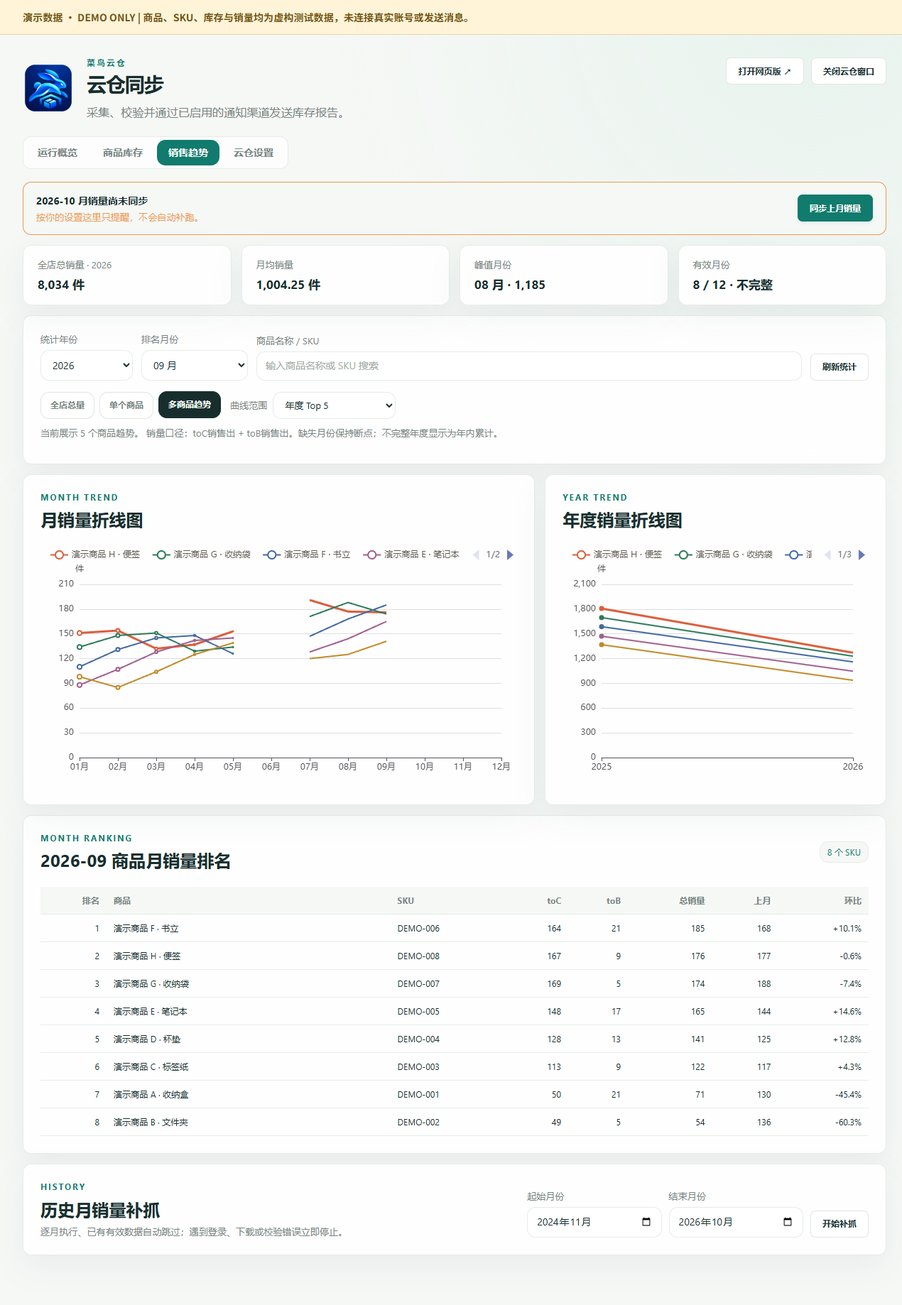
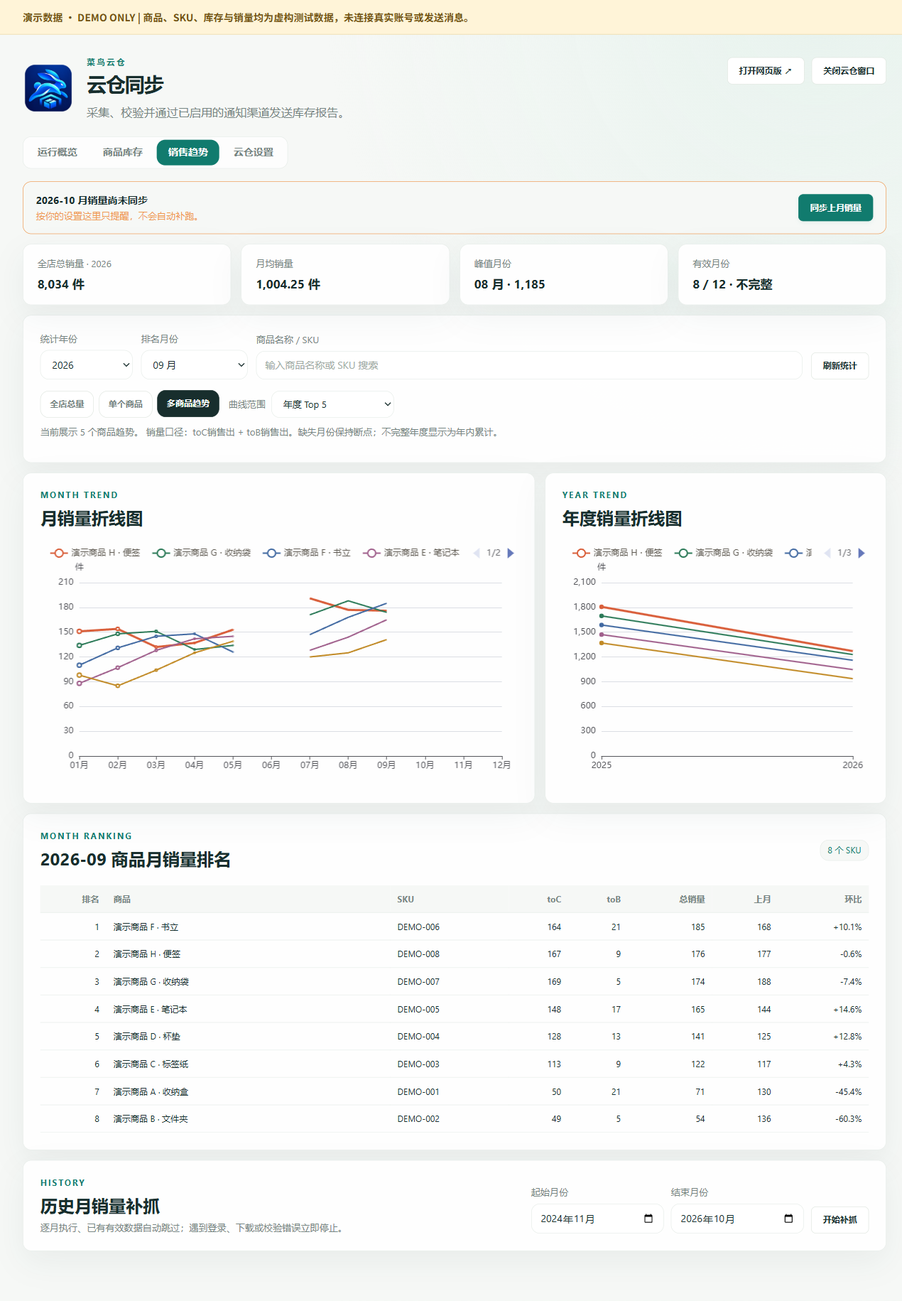
Release 0.10.17: fnOS gateway access, diagnostics and standalone cleanup

diff --git a/windows/workbench/desktop/renderer/web-adapter.js b/windows/workbench/desktop/renderer/web-adapter.js
@@ -5,24 +5,49 @@
   const configuredPrefix = typeof window.__CAINIAO_GATEWAY_PREFIX__ === 'string' ? window.__CAINIAO_GATEWAY_PREFIX__ : '';
   const gatewayPrefix = configuredPrefix.startsWith('/') && !configuredPrefix.startsWith('//') ? configuredPrefix.replace(/\/+$/, '') : '';
   let csrf = '', cursor = 0, connected = false, stopped = false;
-  let diagnosis = '';
+  let diagnosis = '', displayedStatus = '', displayedDiagnosis = '';
   function status(message) {
     const show = () => {
       let banner = document.getElementById('localWebStatus');
       if (!banner) { banner = document.createElement('div'); banner.id = 'localWebStatus'; banner.className = 'local-web-status'; banner.setAttribute('role', 'status'); document.body.prepend(banner); }
+      banner.hidden = !message;
+      const detail = message ? diagnosis : '';
+      if (message === displayedStatus && detail === displayedDiagnosis) return;
+      displayedStatus = message;
+      displayedDiagnosis = detail;
+      const existingLog = banner.querySelector('textarea');
+      const existingMessage = banner.firstChild;
+      if (message && detail && existingLog && existingMessage?.nodeType === Node.TEXT_NODE) {
+        existingMessage.textContent = message;
+        // Keep the displayed snapshot stable while the user is selecting it.
+        if (document.activeElement !== existingLog) existingLog.value = detail;
+        return;
+      }
       banner.textContent = message; banner.hidden = !message;
-      if (message && diagnosis && gatewayPrefix) {
+      if (detail) {
         const details = document.createElement('details');
         const summary = document.createElement('summary');
         summary.textContent = '查看并复制诊断';
-        const log = document.createElement('pre');
-        log.textContent = diagnosis;
-        log.style.whiteSpace = 'pre-wrap';
+        const log = document.createElement('textarea');
+        log.value = detail;
+        log.readOnly = true;
+        log.rows = 7;
+        log.style.width = '100%';
+        log.setAttribute('aria-label', '连接诊断');
         const copy = document.createElement('button');
         copy.textContent = '复制诊断';
         copy.onclick = async () => {
-          try { await navigator.clipboard.writeText(log.textContent); copy.textContent = '已复制'; }
-          catch { const selection = window.getSelection(); const range = document.createRange(); range.selectNodeContents(log); selection.removeAllRanges(); selection.addRange(range); }
+          try {
+            await navigator.clipboard.writeText(log.value);
+            copy.textContent = '已复制';
+          } catch {
+            log.focus();
+            log.select();
+            log.setSelectionRange(0, log.value.length);
+            let copied = false;
+            try { copied = document.execCommand('copy'); } catch {}
+            copy.textContent = copied ? '已复制' : '请长按诊断文字复制';
+          }
         };
         details.append(summary, copy, log);
         banner.append(details);
@@ -39,8 +64,10 @@
     let response;
     try { response = await fetch(gatewayPrefix + path, {...options, credentials:'same-origin', cache:'no-store'}); }
     catch (error) { record('网络请求失败'); throw error; }
-    if (gatewayPrefix && !response.ok) record('HTTP '+response.status, response.headers.get('X-Cainiao-Gateway-Diagnostic') || '');
-    const body = await response.json();
+    if (!response.ok) record('HTTP '+response.status, response.headers.get('X-Cainiao-Gateway-Diagnostic') || '');
+    let body;
+    try { body = await response.json(); }
+    catch { record('HTTP '+response.status, '网关返回了非 JSON 响应'); throw new Error('网关返回了无法识别的响应（HTTP '+response.status+'）'); }
     if (!response.ok || body.ok === false) { const error = new Error(body.error?.message || '本机服务请求失败，请重新打开网页版。'); error.code = body.error?.code; throw error; }
     return body;
   }

diff --git a/deploy/fnos/README.en.md b/deploy/fnos/README.en.md
@@ -2,20 +2,26 @@
 
 [简体中文（默认）](README.md) | **English** · [Home](../../README.en.md)
 
-Stable version **0.10.6** targets **x86-64 fnOS with Docker enabled**. App ID: `cainiao-warehouse`. The application, collection browser and schedules run on the NAS independently of ERP; the Windows client does not need to stay open.
+Stable version **0.10.17** targets **x86-64 fnOS with Docker enabled**. App ID: `cainiao-warehouse`. The application, collection browser and schedules run on the NAS independently of ERP; the Windows client does not need to stay open.
 
-[Download the FPK, matching image and checksums](https://github.com/907609732/cainiao-inventory/releases/tag/v0.10.6)
+[Download the FPK, matching image and checksums](https://github.com/907609732/cainiao-inventory/releases/tag/v0.10.17)
 
 ## Install or update
 
-1. Download `cainiao-warehouse-0.10.6-x86.fpk`, `cainiao-warehouse-0.10.6-image.tar.gz` and `SHA256SUMS.txt`. Verify SHA-256 and keep the installer/image versions matched.
-2. Import the image in fnOS Docker. CLI: `docker load --input cainiao-warehouse-0.10.6-image.tar.gz`. If the GUI only accepts `.tar`, decompress the archive to `.tar` first.
+1. Download `cainiao-warehouse-0.10.17-x86.fpk`, `cainiao-warehouse-0.10.17-image.tar.gz` and `SHA256SUMS.txt`. Verify SHA-256 and keep the installer/image versions matched.
+2. Import the image in fnOS Docker. CLI: `docker load --input cainiao-warehouse-0.10.17-image.tar.gz`. If the GUI only accepts `.tar`, decompress the archive to `.tar` first.
 3. Check that web port `18761` and host-loopback API port `18762` are available. Investigate conflicts without stopping unrelated services.
 4. Manually install the FPK in App Center. For an existing installation, update it while preserving its application data directory. Take a complete offline backup before upgrading.
 5. Confirm the access address in the wizard. Additional domains must be complete `https://` or `http://` origins without paths, separated by commas. Leaving this field blank during an upgrade preserves existing aliases.
 6. Open the fnOS desktop icon to use the embedded window, or visit `http://<NAS-address>:18761/`. Configure the Cainiao account, notification targets and browser login before enabling schedules.
 
-No separate warehouse administrator password is required. Exact Host/Origin checks, browser sessions and CSRF checks remain in place. Use a trusted LAN or an existing controlled fnOS entry. An allowed domain does not replace fnOS authentication or configure public routing, DNS or TLS.
+All signed-in fnOS users can access the shared warehouse. No separate warehouse administrator password is required. Exact Host/Origin checks, browser sessions and CSRF checks remain in place. Use a trusted LAN or an existing controlled fnOS entry. An allowed domain does not replace fnOS authentication or configure public routing, DNS or TLS.
+
+## Mobile remote access
+
+Open the warehouse from the fnOS app. If diagnostics report INVALID_ORIGIN, copy originHost and add its full origin in the application wizard, for example https://nas-app.example.net:12345. Separate multiple origins with commas and retain existing entries. Configured external origins are checked even when the forwarded Host is localhost. Update the configuration if the mobile entry address changes.
+
+Diagnostics support clipboard copying with a selectable text fallback. The yellow banner is hidden after a successful connection.
 
 ## Background jobs and notifications
 
@@ -61,8 +67,6 @@ Project uninstall hooks do not proactively delete data, backups, images or ERP f
 
 ## Build and verification
 
-Packaging reuses official fnpack, Node.js 24, Docker, Playwright Chromium, Xvfb and noVNC. No NAS-wide Node/Python or desktop-service installation is required. See [third-party notices](THIRD-PARTY.md).
+Version 0.10.17 builds Windows and Linux from the same source commit and provides a complete FPK and matching image. Build and installer acceptance results and file digests are recorded in the Release acceptance.json and SHA256SUMS.txt. Upgrades retain the original data directory, configured access origins and automatic-send settings.
 
-[The same-commit 0.10.6 build](https://github.com/907609732/cainiao-inventory/actions/runs/43260025032) passed container, four-view UI, transport-boundary, restart and offline restore checks. Version 0.10.5 had already been installed on the authorized NAS with inventory, settings, dataset identity and schedules preserved. The formal release artifacts were not deployed again and did not trigger real business sends.
-
-Actions artifacts include `build.json`, `image-inspect.json` and build checksums. The stable Release provides the FPK, image, `SHA256SUMS.txt` and `acceptance.json`. [Deployment history (Chinese)](../../docs/fnos-deployment.md) retains earlier findings; consult the final entry for the relevant version.
+Actions artifacts include build.json, image-inspect.json and checksums. The [deployment record](../../docs/fnos-deployment.md) preserves historical evidence.

diff --git a/docs/fnos-unified-gateway.md b/docs/fnos-unified-gateway.md
@@ -31,12 +31,12 @@
 
 ## 安全边界
 
-- **只信任私有 Socket 上的 `X-Trim-*`**。网关监听器要求存在有效 `X-Trim-Userid`，且 `X-Trim-Isadmin` 必须为 `true`；非管理员返回 `403 ADMIN_REQUIRED`，缺失身份返回 `401 GATEWAY_IDENTITY_REQUIRED`。
+- **只信任私有 Socket 上的 `X-Trim-*`**。网关监听器要求存在有效 `X-Trim-Userid`，所有已登录飞牛账号均可访问共享云仓，缺失身份返回 `401 GATEWAY_IDENTITY_REQUIRED`。
 - **TCP 拒绝伪造**。`18761` 与 `18762` 的 `onRequest` 一旦看到任何 `x-trim-*` 请求头直接返回 `403 GATEWAY_HEADERS_FORBIDDEN`，避免把客户端头误当网关注入。
 - **私有 Socket 使用严格同源校验，而不是旧的 TCP 白名单**。网关可能由飞牛在任意真实访问域名/端口下转发（例如 `https://设备.fnos.net` 或 `http://192.168.1.100:5666`），因此私有监听器只接受语法严格的 Host（URL 可解析、无 userinfo/路径/空白/分隔符），并从 `Origin` 推导精确 origin；`Origin` 必须与 Host 的主机名一致；Host 保留端口时还必须匹配端口。真实 fnOS 1.2.0604 的 Unix 转发会去掉 Host 的外部端口（例如 Host 为 `192.168.1.100`，Origin 为 `http://192.168.1.100:5666`），因此只在这个已认证的私有监听上允许 Origin 补回端口；Origin 存在时使用浏览器的外部 HTTP/HTTPS 协议，不把内部转发的 `X-Forwarded-Proto` 与外部 TLS 协议混为一谈。没有 Origin 的请求优先使用 `X-Forwarded-Proto`（仅私有 Socket 信任，且只接受 `http`/`https`）；否则回环/非 443 端口按 HTTP、其余按 HTTPS 处理，因此真实内网 HTTP 入口也能建立会话。拒绝 `Origin: null`、跨站 `Sec-Fetch-Site` 和 Host/Origin 不一致。LAN `18761`、API `18762` 仍使用原来的固定 origin 白名单，不放宽。
 - `getLocalAccess` 与 `openWeb` 返回的 origin/url 包含 `/app/cainiao-warehouse` 前缀，浏览器不会跳出网关命名空间。
-- **会话与 CSRF 保留**。网关为管理员创建独立 cookie（`nas_gateway_session`，`Path=/app/cainiao-warehouse`），与 LAN 的 `nas_session` 隔离；写操作继续要求 `X-CSRF-Token`，由内部 `local-web` 再次校验 bridge 上下文和幂等键。
-- **WebSocket 同样校验身份与来源**。仅开放前缀下的 `/browser/websockify`，要求管理员 Header、同源 Origin 和同一 UID 的网关会话；连接建立后绑定该 UID，不读取消息内的用户 ID。
+- **会话与 CSRF 保留**。网关为已登录账号创建独立 cookie（`nas_gateway_session`，`Path=/app/cainiao-warehouse`），与 LAN 的 `nas_session` 隔离；写操作继续要求 `X-CSRF-Token`，由内部 `local-web` 再次校验 bridge 上下文和幂等键。
+- **WebSocket 同样校验身份与来源**。仅开放前缀下的 `/browser/websockify`，要求有效用户身份 Header、同源 Origin 和同一 UID 的网关会话；连接建立后绑定该 UID，不读取消息内的用户 ID。
 - **路径规范化**。去掉前缀后拒绝 `//`、反斜杠、空字节和编码后的 `.`/`..` 段，静态文件仍只来自既有白名单。
 
 ## Socket 生命周期
@@ -64,9 +64,9 @@ node --test tests/nas-gateway.test.mjs tests/local-web-adapter.test.mjs tests/na
 
 - 前缀下的 HTML、静态资源、会话、事件、API 调度及重定向；
 - 前缀注入的适配器路径（Windows/LAN 无前缀路径不变）；
-- 私有 Socket 身份、管理员限制、缺失身份、非管理员、错误 Host/Origin；
+- 私有 Socket 身份、缺失身份、普通账号访问、错误 Host/Origin；
 - TCP 上的 `X-Trim-*` 伪造拒绝；
-- 浏览器 HTTP + WebSocket 同源路径、无管理员/错误 Origin/`Origin: null`/WS 无 Origin 拒绝；
+- 浏览器 HTTP + WebSocket 同源路径、无身份/错误 Origin/`Origin: null`/WS 无 Origin 拒绝；
 - POSIX Socket 陈旧清理、活 Socket 拒绝、非 Socket 文件保留、停止时只删自有 inode。
 
 Windows 本机无法创建文件系统 Unix Socket，socket 文件用例在 Windows 跳过；同一私有监听代码通过 Windows 命名管道执行前缀/身份/WS 用例。完整 Linux/FPK 容器验收仍需在真实飞牛环境完成。
@@ -74,6 +74,6 @@ Windows 本机无法创建文件系统 Unix Socket，socket 文件用例在 Wind
 ## 已知限制
 
 - 私有网关不依赖安装向导的 origin 白名单，但 Host 必须语法有效且与 `Origin` 同源；非法 Host、`Origin: null` 或跨站请求仍会被拒绝。
-- 非管理员飞牛用户不获得共享云仓设置、库存、任务和浏览器访问。
+- 所有已登录飞牛账号均可使用共享云仓设置、库存、任务和浏览器；网关会话仍按 UID 隔离。
 - 仅代理应用已有的 noVNC `/browser/websockify`；没有额外的通用业务 WebSocket 端点。
 - 不修改 ERP、真实数据、定时任务或通知配置；测试中的通知/采集均为桩，不联系真实 NAS 或服务商。

diff --git a/deploy/fnos/README.md b/deploy/fnos/README.md
@@ -2,20 +2,26 @@
 
 **简体中文（默认）** | [English](README.en.md) · [返回首页](../../README.md)
 
-当前正式版 **0.10.6**，适用于 **x86-64 飞牛 fnOS + Docker**。应用 ID 为 `cainiao-warehouse`，与 ERP 独立部署。界面、浏览器采集和定时任务在 NAS 后台运行，Windows 客户端无需保持开启。
+当前正式版 **0.10.17**，适用于 **x86-64 飞牛 fnOS + Docker**。应用 ID 为 `cainiao-warehouse`，与 ERP 独立部署。界面、浏览器采集和定时任务在 NAS 后台运行，Windows 客户端无需保持开启。
 
-[下载正式安装包、镜像及校验文件](https://github.com/907609732/cainiao-inventory/releases/tag/v0.10.6)
+[下载正式安装包、镜像及校验文件](https://github.com/907609732/cainiao-inventory/releases/tag/v0.10.17)
 
 ## 安装与升级
 
-1. 下载配套的 `cainiao-warehouse-0.10.6-x86.fpk`、`cainiao-warehouse-0.10.6-image.tar.gz` 和 `SHA256SUMS.txt`，核对文件 SHA-256。不能混用其他版本镜像。
-2. 在飞牛 Docker 中导入该镜像。命令行可用 `docker load --input cainiao-warehouse-0.10.6-image.tar.gz`；如果图形界面只接受 `.tar`，先将 `.tar.gz` 解压为 `.tar` 再导入。
+1. 下载配套的 `cainiao-warehouse-0.10.17-x86.fpk`、`cainiao-warehouse-0.10.17-image.tar.gz` 和 `SHA256SUMS.txt`，核对文件 SHA-256。不能混用其他版本镜像。
+2. 在飞牛 Docker 中导入该镜像。命令行可用 `docker load --input cainiao-warehouse-0.10.17-image.tar.gz`；如果图形界面只接受 `.tar`，先将 `.tar.gz` 解压为 `.tar` 再导入。
 3. 确认网页端口 `18761`、宿主回环 API 端口 `18762` 未被其他服务占用。不要停止其他服务来腾出端口，应先核查冲突。
 4. 在应用中心手动安装 FPK；已有菜鸟云仓时选择更新，保留原应用数据目录。升级前先做完整离线备份。
 5. 在向导中确认访问地址。额外域名填写完整 `https://` 或 `http://` 地址，不带路径；多个地址用逗号分隔。升级时留空会保留已有域名配置。
 6. 双击飞牛桌面的菜鸟云仓图标，会在内嵌窗口打开。也可通过 `http://<NAS地址>:18761/` 访问。首次配置菜鸟账号、通知渠道及登录态，再按需启用自动任务。
 
-应用不要求新建云仓管理员密码。浏览器保留精确 Host/Origin、会话及 CSRF 校验；请通过可信内网或已有受控飞牛入口访问。域名白名单不会替代飞牛自身的登录认证，也不会自动配置外网代理、DNS 或 TLS。
+所有已登录的飞牛账号均可访问共享云仓，应用不要求新建云仓管理员密码。浏览器保留精确 Host/Origin、会话及 CSRF 校验；请通过可信内网或已有受控飞牛入口访问。域名白名单不会替代飞牛自身的登录认证，也不会自动配置外网代理、DNS 或 TLS。
+
+## 手机远程访问
+
+从飞牛 App 打开云仓。若诊断显示 INVALID_ORIGIN，展开诊断并复制 originHost，在应用更新或配置向导的“额外访问地址”中添加完整来源，例如 https://nas-app.example.net:12345。多个入口用逗号分隔，保留已有入口。转发 Host 为 localhost 时仍按已配置的外部来源校验。手机入口地址变化后需更新配置。
+
+诊断优先复制到剪贴板，失败时可长按只读文本框复制；页面连接正常后自动隐藏黄色提示栏。
 
 ## 后台任务与通知
 
@@ -61,8 +67,6 @@ node scripts/fnos-backup.mjs restore /absolute/private/backup /absolute/app/data
 
 ## 构建与验收
 
-复用飞牛官方 fnpack、Node.js 24、Docker、Playwright Chromium、Xvfb 和 noVNC；无需在 NAS 系统另装 Node/Python 或桌面服务。依赖许可见 [THIRD-PARTY.md](THIRD-PARTY.md)。
+0.10.17 从同一源码提交构建 Windows 与 Linux，提供完整 FPK 和配套镜像。构建、安装验收和文件摘要见正式 Release 的 acceptance.json 和 SHA256SUMS.txt。升级保留原应用数据目录、已配置的访问来源及自动发送设置。
 
-[0.10.6 同提交构建](https://github.com/907609732/cainiao-inventory/actions/runs/43260025032) 已通过容器、四页界面、传输边界、重启与离线恢复检查。此前已在授权 NAS 实际更新到 0.10.5，库存、设置、独立数据集和自动任务保持一致；本次正式产物没有再次部署或触发真实业务发送。
-
-Actions 产物包含 `build.json`、`image-inspect.json` 和构建摘要；正式 Release 提供 FPK、镜像、`SHA256SUMS.txt` 与 `acceptance.json`。[详细部署验收记录](../../docs/fnos-deployment.md)保留历史过程，早期未完成项以最后对应版本的记录为准。
+Actions 产物包含 build.json、image-inspect.json 和构建摘要。[详细部署验收记录](../../docs/fnos-deployment.md)保留历史过程。

diff --git a/README.md b/README.md
@@ -6,15 +6,15 @@
 
 > **0.9.3、0.9.4 已撤回，请勿继续安装。** 旧包复用了电商工作台的安装身份，存在覆盖风险。已发生覆盖时不要直接运行旧卸载程序，应先备份并恢复工作台。
 
-当前正式版为 **0.10.6**，提供 Windows x64 和飞牛 x86-64 安装包。菜鸟云仓与五成电子商务工作台是两款独立软件，分别安装、配置和卸载。
+当前正式版为 **0.10.17**，提供 Windows x64 和飞牛 x86-64 安装包。菜鸟云仓与五成电子商务工作台是两款独立软件，分别安装、配置和卸载。
 
 设置页集中维护与更新，并新增飞书、企业微信、邮箱和 Telegram 多渠道通知，支持同时启用；日期偏旧但其他校验通过时，可二次确认后[特殊发送](docs/date-exception-send.md)。见[配置及验证范围](docs/notifications.md)。
 
-0.10.6 的通知报告保留完整货品名称并换行，表头“可售 / 天数”分两行；钉钉中的 SKU 和库存/销量使用小字号，数字和预警保留完整。飞牛桌面内嵌打开，支持配置应用域名、后台定时任务及按需显示已保存密钥。Windows 提供 APP、网页版和 AI 接口。本文的英文版是项目文档翻译，不代表软件界面已支持英文切换。
+通知报告保留完整货品名称并换行，表头“可售 / 天数”分两行；钉钉中的 SKU 和库存/销量使用小字号，数字和预警保留完整。飞牛通过官方统一网关在桌面内嵌打开，所有已登录账号均可访问共享云仓；手机远程入口可配置精确来源地址。设置页合并维护、版本与更新，诊断支持一键复制及长按复制，正常连接时隐藏提示栏。Windows 提供 APP、网页版和 AI 接口。本文的英文版是项目文档翻译，不代表软件界面已支持英文切换。
 
 ## 下载
 
-[下载 0.10.6 Windows x64 安装器](https://github.com/907609732/cainiao-inventory/releases/download/v0.10.6/CainiaoWarehouse-Setup-0.10.6-x64.exe) · [飞牛安装包与配套镜像](https://github.com/907609732/cainiao-inventory/releases/tag/v0.10.6) · [飞牛安装说明](deploy/fnos/README.md)
+[下载 0.10.17 Windows x64 安装器](https://github.com/907609732/cainiao-inventory/releases/download/v0.10.17/CainiaoWarehouse-Setup-0.10.17-x64.exe) · [飞牛安装包与配套镜像](https://github.com/907609732/cainiao-inventory/releases/tag/v0.10.17) · [飞牛安装说明](deploy/fnos/README.md)
 
 ## 独立安装与数据
 
@@ -86,7 +86,16 @@ npm run dev
 
 根目录 `npm test` 运行回归测试，`npm run test:ui` 检查独立界面，`npm run build` 生成安装器。普通启动使用云仓独立数据目录；自动化测试使用临时账本。
 
-## 0.10.6 发布与验证
+## 0.10.17 发布与验证
+
+- 修复飞牛统一网关的外部来源校验，支持已配置的手机远程入口；安装或升级向导可填写完整来源地址。
+- 所有已登录飞牛账号均可使用共享库存、销量、设置和采集浏览器，会话按飞牛用户 UID 隔离。
+- 修复诊断复制失败和空白黄色提示条，精简云仓设置，合并维护与更新入口。
+- 清理废弃的工作台构建脚本，Windows 与飞牛统一版本号，使用完整镜像构建发布。
+- 同提交构建、安装验收、校验摘要和实际验证范围见 Release 中的 acceptance.json。手机请求参数回放与手机真机验收分别记录。
+- [正式安装包与验收文件](https://github.com/907609732/cainiao-inventory/releases/tag/v0.10.17)。
+
+### 0.10.6 历史验证
 
 - 正式源码：`24b8d5d79a879522f86223f8704753276fbb14c2`。
 - [Windows CI](https://github.com/907609732/cainiao-inventory/actions/runs/43260024922)、[Windows 安装包验收](https://github.com/907609732/cainiao-inventory/actions/runs/43260030224)、[飞牛构建检查](https://github.com/907609732/cainiao-inventory/actions/runs/43260025032)。安装测试使用虚构数据，覆盖全新安装、0.10.5 升级、重复安装、独立卸载身份、数据和设置保留。

diff --git a/windows/README.md b/windows/README.md
@@ -4,7 +4,7 @@
 
 0.9.3、0.9.4 已因安装身份冲突撤回。安装修复版前，已发生覆盖的电脑应先恢复工作台；不要直接运行旧云仓卸载程序。
 
-当前正式版为 **0.10.6**。[下载安装器及校验文件](https://github.com/907609732/cainiao-inventory/releases/tag/v0.10.6)。云仓独立运行，不依赖 ERP；APP、网页版和 AI 接口共用一个后台。建议使用 Node.js 24，与正式 CI 一致。
+当前正式版为 **0.10.17**。[下载安装器及校验文件](https://github.com/907609732/cainiao-inventory/releases/tag/v0.10.17)。云仓独立运行，不依赖 ERP；APP、网页版和 AI 接口共用一个后台。建议使用 Node.js 24，与正式 CI 一致。
 
 ## 开发启动
 
@@ -28,31 +28,15 @@ npm run test:ui
 npm run warehouse:build -- --publish never
 ```
 
-安装器输出为 `dist/CainiaoWarehouse-Setup-0.10.6-x64.exe`，同时生成 `latest.yml` 和差分更新索引。更新仓库为 `907609732/cainiao-inventory`。打包命令不自动发布，不应注入个人 GitHub 凭据。发布时核对版本、产物摘要、更新源及源码提交。
+安装器输出为 `dist/CainiaoWarehouse-Setup-0.10.17-x64.exe`，同时生成 `latest.yml` 和差分更新索引。更新仓库为 `907609732/cainiao-inventory`。打包命令不自动发布，不应注入个人 GitHub 凭据。发布时核对版本、产物摘要、更新源及源码提交。
 
-[0.10.6 Windows CI](https://github.com/907609732/cainiao-inventory/actions/runs/43260024922) 和[同次安装包验收](https://github.com/907609732/cainiao-inventory/actions/runs/43260030224)通过。安装测试涵盖全新安装、0.10.5 升级、重复安装、独立卸载身份、虚构库存与设置保留，以及 APP/网页共用后台。旧工作台公开基线包不可用，本轮未重复实测共存。真实平台采集、通知送达和数据迁移不属于本轮发布测试；安装器未作 Authenticode 签名。
+0.10.17 的构建、全新安装和从 0.10.6 升级的实际结果见 [Release 验收记录](https://github.com/907609732/cainiao-inventory/releases/tag/v0.10.17)。安装器未作 Authenticode 签名。
 
 ## 数据与源码范围
 
 云仓保留运行概览、商品库存、销售趋势、云仓设置四个页面。源码树已移除旧发票缓存、独立 ERP 客户端和旧客户端迁移目录；旧安装包、测试数据及依赖缓存不留在源码目录。Windows 应用源码位于 `windows/workbench`，飞牛部署位于 `deploy/fnos`。
 
 独立版数据与工作台分开；显式托管组件才使用宿主提供的数据位置。不要把源码目录当作正式账本目录；维护数据前退出相关服务并备份。详细功能见[使用说明](workbench/docs/feature-manual.md)。
-
-## 工作台扩展集成
-
-以下入口供现有 ERP 工具链使用，独立云仓开发和安装无需执行。签名扩展需外部 Ed25519 密钥及匹配的宿主版本；密钥不得放入仓库。
-
-在仓库根目录执行：
-
-```powershell
-node scripts/build-windows.mjs
-# 使用已有构建回执收集并校验扩展产物
-node scripts/build-windows.mjs --from-receipt
-```
-
-两个仓库默认并排存放，其他位置通过 `--erp=完整ERP路径` 指定。`workbench/scripts/workbench-build.mjs` 与 `legacy-suite-build.mjs` 仍由现有 ERP 构建入口引用，属于保留的集成适配器。
-
-扩展产物在 `release/windows/<tag>/`，包括云仓包、按需浏览器包、签名目录和摘要，发布仓库为 `907609732/cainiao-inventory`。扩展标签采用 `warehouse-<宿主版本>-<清单摘要>`；这与独立安装器的 `v0.10.5` 标签不同。主机范围和清单摘要必须按实际构建回执核对，构建成功不代表安装或正式数据迁移通过。
 
 ## 公开 UI 演示
 

diff --git a/README.en.md b/README.en.md
@@ -4,17 +4,17 @@
 
 [**Releases · Downloads**](https://github.com/907609732/cainiao-inventory/releases)
 
-Cainiao Cloud Warehouse is an independent inventory application for **Windows x64** and **fnOS x86-64**. It does not require an ERP or the former e-commerce workbench. The current stable release is **0.10.6**.
+Cainiao Cloud Warehouse is an independent inventory application for **Windows x64** and **fnOS x86-64**. It does not require an ERP or the former e-commerce workbench. The current stable release is **0.10.17**.
 
 > Versions 0.9.3 and 0.9.4 were withdrawn because their installation identity conflicted with the old workbench. Do not install them or run their uninstallers on a computer affected by that conflict; back up and restore the workbench first.
 
 ## Download
 
-- [Windows 0.10.6 installer](https://github.com/907609732/cainiao-inventory/releases/download/v0.10.6/CainiaoWarehouse-Setup-0.10.6-x64.exe)
-- [fnOS installer, matching container image, checksums and acceptance record](https://github.com/907609732/cainiao-inventory/releases/tag/v0.10.6)
+- [Windows 0.10.17 installer](https://github.com/907609732/cainiao-inventory/releases/download/v0.10.17/CainiaoWarehouse-Setup-0.10.17-x64.exe)
+- [fnOS installer, matching container image, checksums and acceptance record](https://github.com/907609732/cainiao-inventory/releases/tag/v0.10.17)
 - [fnOS installation guide](deploy/fnos/README.en.md)
 
-Version 0.10.6 preserves full product names and wraps them across lines. The stock-coverage header uses two lines; DingTalk SKUs and stock/sales quantities use smaller text while keeping all digits and alert values. fnOS retains its embedded desktop window and explicitly configured application domains.
+Inventory reports preserve full product names and wrap them across lines. The stock-coverage header uses two lines; DingTalk SKUs and stock/sales quantities use smaller text while keeping all digits and alert values. fnOS uses the official unified gateway in an embedded desktop window. All signed-in fnOS users can access the shared warehouse. Configure exact origins for mobile remote entry points. Settings combine maintenance and updates. Diagnostics support clipboard and manual copying, and the status banner stays hidden after a successful connection.
 
 ## Features
 
@@ -90,7 +90,16 @@ npm run dev
 
 `npm test` runs regression checks, `npm run test:ui` checks the desktop UI, and `npm run build` builds the installer. Ordinary launches use the standalone data directory; automated tests use temporary ledgers. See [Windows development](windows/README.en.md).
 
-## Release verification — 0.10.6
+## Release verification — 0.10.17
+
+- Fixes external-origin validation through the fnOS unified gateway, including explicitly configured mobile remote entry points.
+- All authenticated fnOS users can access shared inventory, sales, settings and the collection browser. Sessions remain bound to each fnOS user UID.
+- Fixes diagnostic copying and the empty yellow status bar. Settings combine maintenance and updates.
+- Removes obsolete workbench build scripts and aligns Windows and fnOS versions in complete release builds.
+- Same-commit build, installer acceptance, file checksums and verification scope are recorded in the Release acceptance.json. Request replay and actual phone acceptance are recorded separately.
+- [Installers and acceptance files](https://github.com/907609732/cainiao-inventory/releases/tag/v0.10.17).
+
+### Historical 0.10.6 verification
 
 Source commit: `24b8d5d79a879522f86223f8704753276fbb14c2`.
 

diff --git a/windows/README.en.md b/windows/README.en.md
@@ -2,7 +2,7 @@
 
 [简体中文（默认）](README.md) | **English** · [Home](../README.en.md)
 
-Stable version: **0.10.6**. [Installer and verification files](https://github.com/907609732/cainiao-inventory/releases/tag/v0.10.6). The standalone application does not require ERP. APP, browser and AI access share one backend. Prefer Node.js 24, matching release CI.
+Stable version: **0.10.17**. [Installer and verification files](https://github.com/907609732/cainiao-inventory/releases/tag/v0.10.17). The standalone application does not require ERP. APP, browser and AI access share one backend. Prefer Node.js 24, matching release CI.
 
 Versions 0.9.3 and 0.9.4 were withdrawn because of installation-identity conflicts. If the old workbench was overwritten, restore it before installing a corrected version; do not run the withdrawn uninstallers.
 
@@ -28,9 +28,9 @@ npm run test:ui
 npm run warehouse:build -- --publish never
 ```
 
-Output: `dist/CainiaoWarehouse-Setup-0.10.6-x64.exe`, with `latest.yml` and the differential-update index. The update repository is `907609732/cainiao-inventory`. Building does not publish automatically. Do not inject personal GitHub credentials. Check the version, file hashes, update source and source commit before publication.
+Output: `dist/CainiaoWarehouse-Setup-0.10.17-x64.exe`, with `latest.yml` and the differential-update index. The update repository is `907609732/cainiao-inventory`. Building does not publish automatically. Do not inject personal GitHub credentials. Check the version, file hashes, update source and source commit before publication.
 
-[Windows CI](https://github.com/907609732/cainiao-inventory/actions/runs/43260024922) and [same-run installer acceptance](https://github.com/907609732/cainiao-inventory/actions/runs/43260030224) passed. Checks cover fresh installation, upgrade from 0.10.5, reinstall, separate uninstall identity, synthetic inventory/settings preservation and shared APP/web backend. The old workbench baseline download was unavailable; coexistence was not retested for this release. Real platform collection, delivery and ledger migration are outside this release test. The installer is not Authenticode-signed.
+Build, fresh-install and upgrade-from-0.10.6 results for version 0.10.17 are recorded in the [Release acceptance files](https://github.com/907609732/cainiao-inventory/releases/tag/v0.10.17). The installer is not Authenticode-signed.
 
 ## Source and data boundaries
 
@@ -43,19 +43,6 @@ npm --prefix windows/workbench run web -- --user-data-dir=C:\Temp\CainiaoWebDemo
 ```
 
 See the [local web/API reference (Chinese)](../docs/local-web.md).
-
-## Optional ERP extension integration
-
-These retained adapters are for existing ERP build tooling; independent installation and development do not require them. Signed extensions require external Ed25519 keys and a compatible host. Never commit signing keys.
-
-```powershell
-node scripts/build-windows.mjs
-node scripts/build-windows.mjs --from-receipt
-```
-
-The repositories are expected side by side; use `--erp=<absolute-ERP-path>` for another location. `workbench/scripts/workbench-build.mjs` and `legacy-suite-build.mjs` remain referenced integration adapters.
-
-Extension artifacts are written to `release/windows/<tag>/`. Tags use `warehouse-<host-version>-<manifest-digest>`, separate from standalone `v0.10.5` releases. Confirm host scope and manifest digest from the actual build receipt. A successful extension build does not prove installation or business-data migration.
 
 ## Public UI demo
 

diff --git a/docs/architecture.md b/docs/architecture.md
@@ -1,6 +1,6 @@
 # 当前软件架构
 
-本文对应 Windows 云仓 0.9.5，本仓库只维护 Windows 版本。
+本文对应菜鸟云仓 0.10.17，支持 Windows 桌面、本机网页和飞牛 fnOS。
 
 ## Windows 主链路
 
@@ -12,7 +12,7 @@
 - 任务、配置和数据位置：`windows/workbench/desktop/shared`。
 - 云仓受控业务接口：`windows/workbench/desktop/modules/cloud-control.mjs`、`desktop/workbench/warehouse-agent*.mjs`。
 - 安装器：`windows/workbench/build/electron-builder.config.cjs`。
-- 工作台签名扩展：仓库根目录 `scripts/build-windows.mjs`，依赖外部 ERP 工具链。
+- 飞牛：`windows/workbench/nas` 提供后台、统一网关和 CLI/MCP，`deploy/fnos` 提供独立安装包。
 
 ## 数据边界
 
